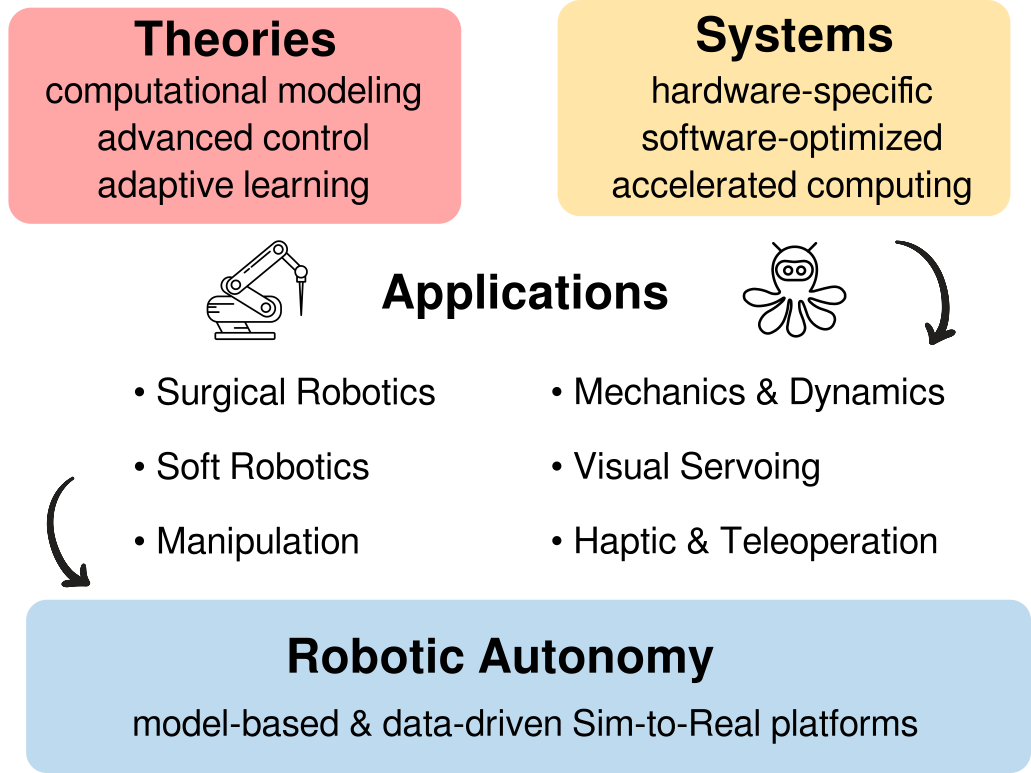
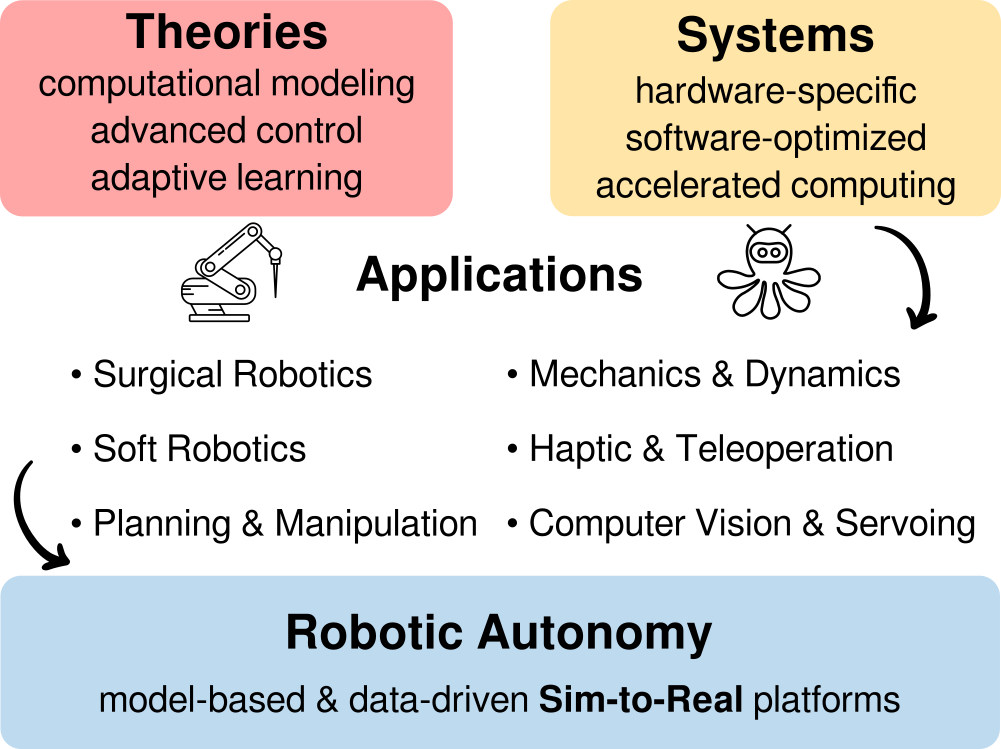
changed areas

diff --git a/_pages/about.md b/_pages/about.md
@@ -17,23 +17,27 @@ social: true  # includes social icons at the bottom of the page
 
 I'm currently a postdoctoral researcher at the [Advanced Robotics and Controls Lab](https://www.ucsdarclab.com/) at the University of California San Diego, mentored by [Prof. Michael Yip](https://yip.eng.ucsd.edu/). Before this role, I conducted research at the [Biorobotics Institute](https://www.santannapisa.it/en/institute/biorobotics) with [Prof. Filippo Cavallo](https://scholar.google.it/citations?user=4qiWy0MAAAAJ&hl=en) and at the Center for [Bioinspired Soft Robotics](https://bsr.iit.it/) at the Italian Institute of Technology (IIT), Italy. My Ph.D. was completed at INSA de Lyon, a top ranked French engineering university, under the guidance of [Prof. Arnaud Lelevé](https://scholar.google.fr/citations?user=ViL8uI8AAAAJ&hl=fr). I also have experience as a senior control engineer and project manager at [ROBO Medical Co., Ltd.](http://en.docrobo.com/), a startup specializing in creating robots for endoscopic submucosal dissection (ESD) surgery.
 
-My research interests lie at the intersection of **robotics, autonomous systems, control theory**, encompassing computational modeling, advanced control, AI, and integrated hardware/software for robotic autonomy. I focus on applying these in unstructured environments, including biomedical, manufacturing, industrial, natural, and household settings.
+My research interests lie at the intersection of **robotics, autonomous systems, control theory**, encompassing computational modeling, advanced control, AI, and integrated hardware/software for robotic autonomy. I focus on applying these in unstructured environments, including biomedical, healthcare, manufacturing, industrial, and aerospace settings.
 
 {% include figure.html path="assets/img/research_focus.png" title="research_focus" style="width:38%;float: right" align="right" %}
 - **Computational Modeling**: 
-  - mechanics
+  - multibody mechanics
   - kinematics and dynamics
   - physics-informed simulation 
   - constrained optimization
 - **Advanced Control and AI**: 
   - model-based and data-driven control
-  - visual servoing 
-  - human-in-the-loop control
-  - decision making with AI
+  - inverse problems 
+  - motion planning
+  - manipulation
+  - predictive control
 - **Integrated Embedded and Real-Time System**: 
+  - mechatronics
   - accelerated computing
   - cyber-physical systems
-  - mechatronics
+  - computer vision and servoing
+  - adaptive learning and neural networks
+  - cyber-physical systems
 
     
 <!-- #### 	**Research Interests**
